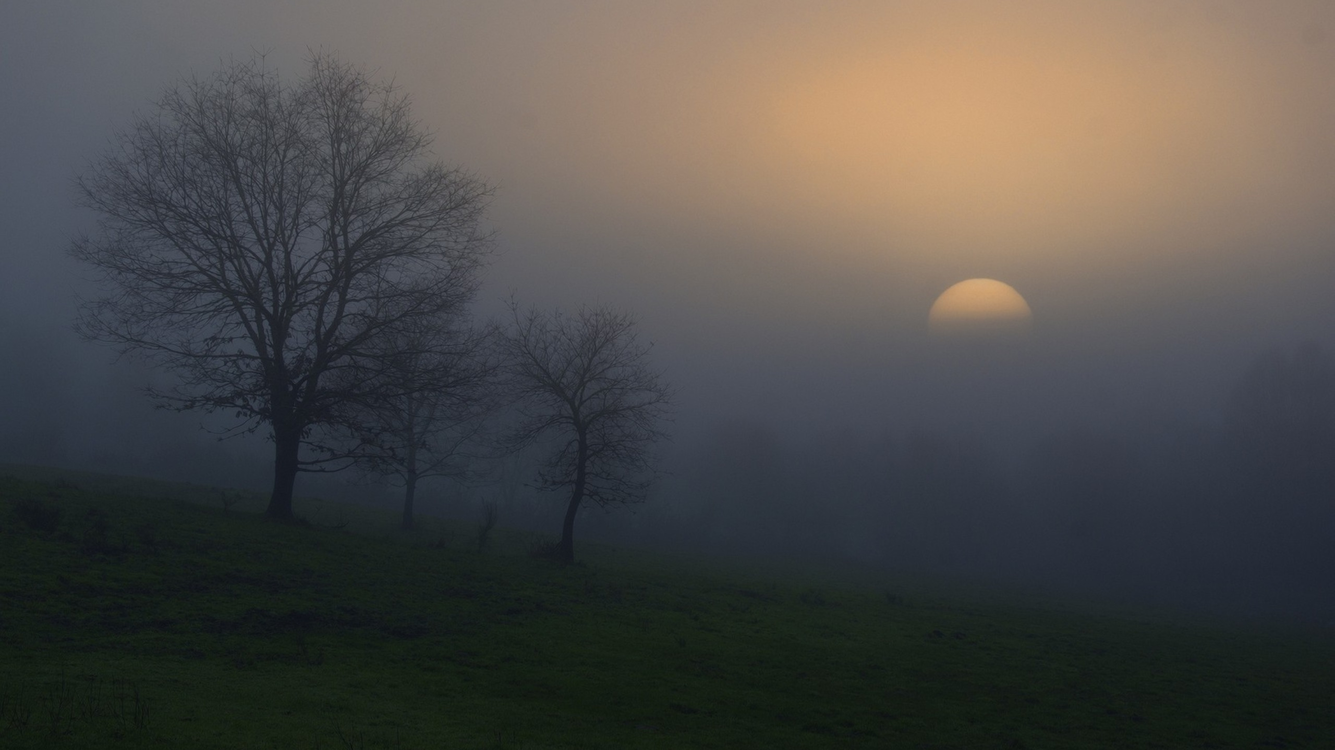
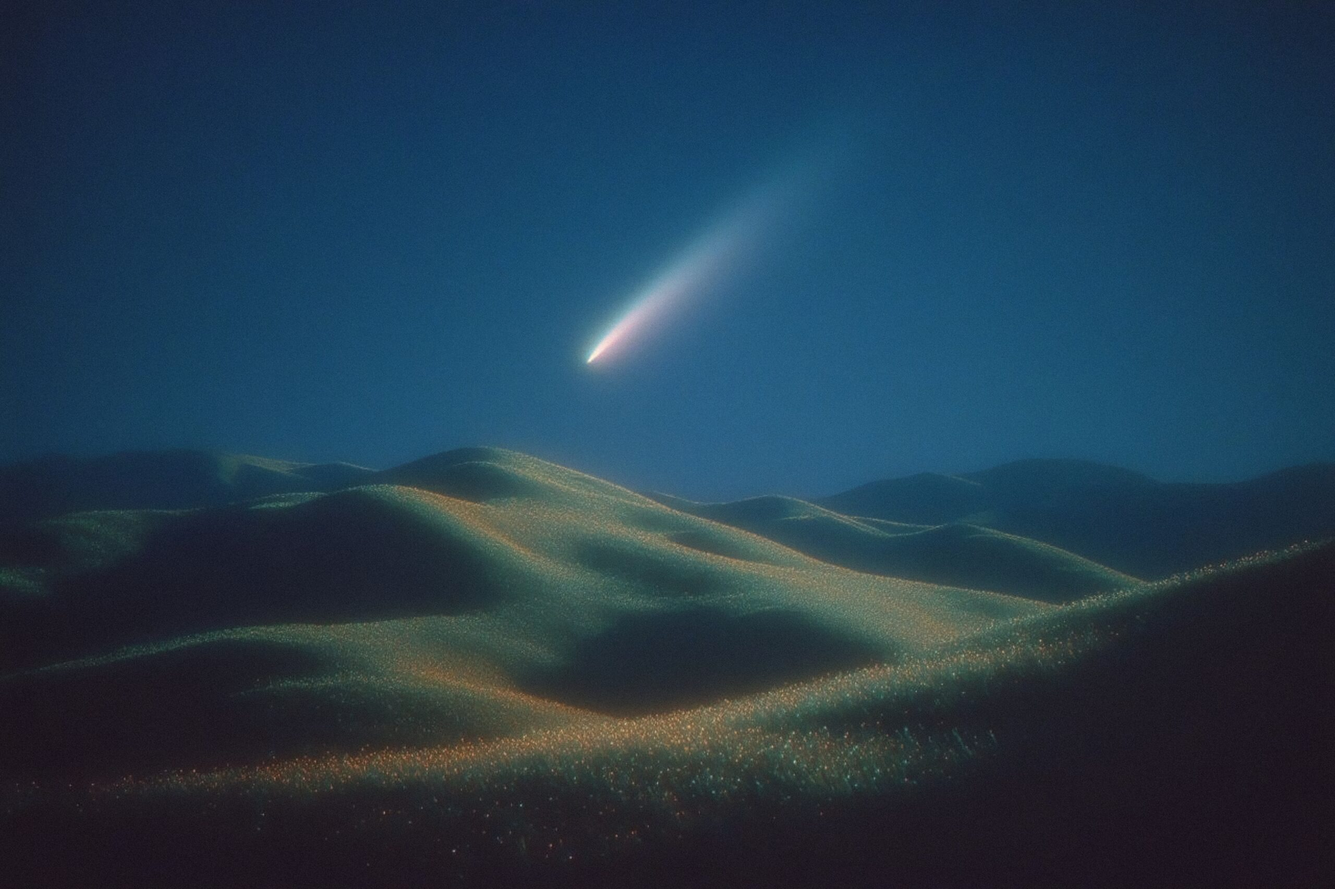
colour updates

diff --git a/_sass/_base.scss b/_sass/_base.scss
@@ -2,6 +2,15 @@
  * Styles for the base elements of the theme.
  ******************************************************************************/
 
+// Translucent white, written out as rgba() text instead of a Sass colour.
+// In compressed output Sass shortens rgba(255, 255, 255, a) to hsla(0, 0%, 100%, a),
+// and the production CSS minifier then strips the "%" from "0%", leaving a value
+// browsers throw away. Use this for any white-with-alpha in a regular property.
+// (Values inside CSS custom properties and gradients are passed through as text already.)
+@function white-a($alpha) {
+  @return unquote("rgba(255, 255, 255, #{$alpha})");
+}
+
 .job-market-badge {
   display: inline-flex;
   align-items: center;
@@ -69,7 +78,7 @@
   position: absolute;
   inset: 0;
   pointer-events: none;
-  background: linear-gradient(to bottom, rgba(18, 21, 22, 0) 70%, var(--global-bg-color) 100%);
+  background: linear-gradient(to bottom, rgba($ink-bg, 0) 70%, var(--global-bg-color) 100%);
 }
 
 .hero-overlay {
@@ -91,8 +100,8 @@
   color: #ffffff;
   padding: 2.5rem 3rem 2.25rem;
   border-radius: 24px;
-  background: rgba(255, 255, 255, 0.08);
-  border: 1px solid rgba(255, 255, 255, 0.16);
+  background: white-a(0.08);
+  border: 1px solid white-a(0.16);
   backdrop-filter: blur(14px) saturate(120%);
   -webkit-backdrop-filter: blur(14px) saturate(120%);
   box-shadow: 0 20px 60px rgba(0, 0, 0, 0.25);
@@ -105,7 +114,7 @@
   font-weight: 600;
   letter-spacing: 0.14em;
   text-transform: uppercase;
-  color: rgba(255, 255, 255, 0.72);
+  color: white-a(0.72);
   margin: 0 0 1.25rem;
 }
 
@@ -128,7 +137,7 @@
   object-fit: cover;
   object-position: 50% 18%;
   opacity: 1;
-  border: 2px solid rgba(255, 255, 255, 0.55);
+  border: 2px solid white-a(0.55);
   box-shadow: 0 8px 24px rgba(0, 0, 0, 0.35);
 }
 
@@ -148,7 +157,7 @@
   font-size: 1.3rem;
   font-weight: 500;
   line-height: 1.5;
-  color: rgba(255, 255, 255, 0.85);
+  color: white-a(0.85);
   margin: 0 auto 2rem;
   max-width: 640px;
 
@@ -228,13 +237,13 @@
 }
 
 .btn-pill-ghost {
-  background: rgba(255, 255, 255, 0.06);
-  border-color: rgba(255, 255, 255, 0.28);
+  background: white-a(0.06);
+  border-color: white-a(0.28);
   color: #ffffff !important;
 
   &:hover {
-    background: rgba(255, 255, 255, 0.12);
-    border-color: rgba(255, 255, 255, 0.6);
+    background: white-a(0.12);
+    border-color: white-a(0.6);
   }
 }
 
@@ -263,30 +272,37 @@
   margin: 0 0 1.5rem;
 }
 
-// Research strip: three linked cards inside the hero, under the name panel,
-// so they share the photo backdrop and read as the same glass as the panel
+// Research strip: four linked cards inside the hero, under the name panel,
+// so they share the photo backdrop. Four across on desktop, two by two on
+// mid widths, stacked on phones (see the max-width: 768px block below).
 .research-strip {
   display: grid;
-  grid-template-columns: repeat(3, 1fr);
+  grid-template-columns: repeat(4, 1fr);
   gap: 1rem;
   width: 100%;
   max-width: $max-content-width;
   padding: 0 15px; // matches the Bootstrap container gutter
+
+  @media (max-width: 1100px) {
+    grid-template-columns: repeat(2, 1fr);
+  }
 }
 
 .research-card {
   display: flex;
   flex-direction: column;
   gap: 0.5rem;
-  padding: 1.5rem;
-  background: rgba(255, 255, 255, 0.08); // identical to .hero-content
-  border: 1px solid rgba(255, 255, 255, 0.16);
+  padding: 1.35rem 1.25rem;
+  // Colours are per theme (see _themes.scss): the cards sit where the photo fades into
+  // the page, so light mode needs dark text on pale glass and dark mode the reverse
+  background: var(--global-hero-card-bg-color);
+  border: 1px solid var(--global-hero-card-border-color);
   border-radius: 18px;
   backdrop-filter: blur(14px) saturate(120%);
   -webkit-backdrop-filter: blur(14px) saturate(120%);
   box-shadow: 0 20px 60px rgba(0, 0, 0, 0.25);
-  color: #ffffff !important;
-  text-shadow: 0 1px 12px rgba(0, 0, 0, 0.35);
+  color: var(--global-hero-card-text-color) !important;
+  text-shadow: var(--global-hero-card-text-shadow);
   text-decoration: none !important;
   transition:
     transform 0.2s ease,
@@ -300,15 +316,19 @@
   }
 }
 
+// Both spans inherit the card colour explicitly; otherwise the global "span" rule
+// gives them the page text colour
 .research-card-title {
   font-family: $font-serif;
-  font-size: 1.35rem;
+  font-size: 1.3rem;
   font-weight: 500;
   line-height: 1.2;
+  color: inherit;
 }
 
 .research-card-blurb {
-  color: rgba(255, 255, 255, 0.8);
+  color: inherit;
+  opacity: 0.82;
   font-size: 0.95rem;
   line-height: 1.5;
 }
@@ -349,8 +369,8 @@
   inset: 0;
   pointer-events: none;
   background:
-    linear-gradient(to bottom, rgba(18, 21, 22, 0) 55%, var(--global-bg-color) 100%),
-    linear-gradient(to bottom, rgba(18, 21, 22, 0.6) 0%, rgba(18, 21, 22, 0.45) 100%);
+    linear-gradient(to bottom, rgba($ink-bg, 0) 55%, var(--global-bg-color) 100%),
+    linear-gradient(to bottom, rgba($ink-bg, 0.6) 0%, rgba($ink-bg, 0.45) 100%);
 }
 
 .page-hero-content {
@@ -378,7 +398,7 @@
 
 .page-hero-description {
   font-size: 1.05rem;
-  color: rgba(255, 255, 255, 0.82);
+  color: white-a(0.82);
   max-width: 620px;
   margin: 0.75rem 0 0;
 }

diff --git a/_sass/_variables.scss b/_sass/_variables.scss
@@ -9,20 +9,20 @@
 $bg-color-hard: #1d2021 !default;
 $bg-color-medium: #282828 !default;
 
-// Near-black "ink" palette used by the dark theme (quieter than Gruvbox hard)
-$ink-bg: #121516 !default; // page background
-$ink-surface: #1a1e20 !default; // cards, panes, code blocks
-$ink-divider: #2a2f32 !default; // 1px borders
+// Navy-black "ink" palette used by the dark theme, tinted to meet the night sky in the hero photo
+$ink-bg: #0f141a !default; // page background
+$ink-surface: #161c24 !default; // cards, panes, code blocks
+$ink-divider: #262e39 !default; // 1px borders
 $ink-text: #e6e3dc !default; // primary text, slightly warm off-white
 $ink-text-light: #9aa0a6 !default; // secondary text
 // Dark-mode accent for links and highlighted text. Swap both values to try another:
-//   amber     #d9a066 / #e8b887   (default: echoes the sunrise glow in the hero)
-//   teal      #5fa8a3 / #7fc1bc   (same family as the light-mode accent)
+//   ice blue  #8fb3d9 / #a9c7e6   (default: the lit part of the hero's night sky)
+//   amber     #d9a066 / #e8b887   (picks up the sparkles on the dunes)
+//   teal      #5fa8a3 / #7fc1bc
 //   rose      #c98a8a / #dba6a6
-//   ice blue  #8fb3d9 / #a9c7e6
 //   cream     #e6dcc8 / #ffffff   (near-monochrome; links read by underline)
-$ink-accent: #d9a066 !default;
-$ink-accent-hover: #e8b887 !default;
+$ink-accent: #8fb3d9 !default;
+$ink-accent-hover: #a9c7e6 !default;
 
 // Light "paper" palette (warm off-white, near-black text, one muted accent)
 $paper-bg: #faf8f5 !default;
@@ -31,8 +31,8 @@ $paper-surface-2: #f1eee8 !default;
 $paper-text: #15191d !default;
 $paper-text-light: #6b7076 !default;
 $paper-divider: rgba(0, 0, 0, 0.08) !default;
-$paper-accent: #2f6f73 !default; // muted teal
-$paper-accent-dark: #1f5558 !default;
+$paper-accent: #1f5a7a !default; // deep sky blue, from the hero photo (previously muted teal #2f6f73 / #1f5558)
+$paper-accent-dark: #16455e !default;
 
 // Type stacks: serif for display headings, sans for body, mono for prompts and code
 $font-serif: "Newsreader", "Iowan Old Style", Georgia, "Times New Roman", serif !default;

diff --git a/_sass/_themes.scss b/_sass/_themes.scss
@@ -10,6 +10,12 @@
   --global-navbar-bg-color: rgba(250, 248, 245, 0.82);
   --global-glass-bg-color: rgba(255, 255, 255, 0.55);
   --global-glass-border-color: rgba(0, 0, 0, 0.08);
+  // Home-page research cards: pale glass and dark text, because in light mode
+  // the hero photo fades to the paper background behind them
+  --global-hero-card-bg-color: rgba(255, 255, 255, 0.62);
+  --global-hero-card-border-color: rgba(255, 255, 255, 0.55);
+  --global-hero-card-text-color: #{$paper-text};
+  --global-hero-card-text-shadow: none;
   --global-code-bg-color: #{$paper-surface-2};
   --global-text-color: #{$paper-text};
   --global-text-color-light: #{$paper-text-light};
@@ -90,9 +96,14 @@
 html[data-theme="dark"] {
   color-scheme: dark;
   --global-bg-color: #{$ink-bg};                 // Near-black page background
-  --global-navbar-bg-color: rgba(18, 21, 22, 0.72); // Frosted navbar
+  --global-navbar-bg-color: rgba(15, 20, 26, 0.72); // Frosted navbar ($ink-bg at 72%)
   --global-glass-bg-color: rgba(255, 255, 255, 0.13); // Frosted tiles: tuned to match the hero panel over the photo
   --global-glass-border-color: rgba(255, 255, 255, 0.2);
+  // Home-page research cards: the same glass as the hero name panel, white text
+  --global-hero-card-bg-color: rgba(255, 255, 255, 0.08);
+  --global-hero-card-border-color: rgba(255, 255, 255, 0.16);
+  --global-hero-card-text-color: #ffffff;
+  --global-hero-card-text-shadow: 0 1px 12px rgba(0, 0, 0, 0.35);
   --global-code-bg-color: #{$ink-surface};       // Code block / secondary surface
   --global-text-color: #{$ink-text};             // Primary text
   --global-text-color-light: #{$ink-text-light}; // Secondary text

diff --git a/_pages/research-themes.md b/_pages/research-themes.md
@@ -2,31 +2,38 @@
 layout: page
 title: research
 hero_title: Research themes
-description: Three avenues through which I approach machine learning for science.
+description: Four avenues through which I approach machine learning for science.
 permalink: /research-themes/
 nav: true
 nav_order: 0
 ---
 
-I am interested in the role of machine learning in science, and the role of physics to build more capable artificial intelligence. I approach these problems through the three main avenues below.
+I am interested in the role of machine learning in science, and the role of physics to build more capable artificial intelligence. I approach these problems through the four main avenues below.
 
 <div class="section-terminal">
   <div class="section-terminal-body">
-    <h3 class="terminal-heading" style="margin-top:0;">Latent dynamical systems</h3>
-    <p>Learning compact, physically meaningful representation spaces in which complex systems evolve, making their dynamics easier to learn, easier to constrain (if one desires), and generally more robust to systematics.</p>
+    <h3 class="terminal-heading" style="margin-top:0;">Latent dynamics &amp; world models</h3>
+    <p>Learning compact, physically meaningful representation spaces in which complex systems evolve, making their dynamics easier to learn, easier to constrain (if one desires), and generally more robust to systematics. On top of these I build world models that capture the generative and causal structure of physical systems, supporting intervention, counterfactual reasoning, and reliable extrapolation rather than naive pattern-matching.</p>
   </div>
 </div>
 
 <div class="section-terminal">
   <div class="section-terminal-body">
-    <h3 class="terminal-heading" style="margin-top:0;">Physics-informed world models</h3>
-    <p>Models that capture the generative and causal structure of physical systems, supporting intervention, counterfactual reasoning, and reliable extrapolation rather than naive pattern-matching.</p>
+    <h3 class="terminal-heading" style="margin-top:0;">Continual learning</h3>
+    <p>Learning systems that adapt over time, accumulating knowledge rather than being retrained from scratch. I am interested in how a model can take in new data and new tasks while keeping what it already knows, and in treating learning itself as a dynamical process that can be modelled and steered.</p>
   </div>
 </div>
 
 <div class="section-terminal">
   <div class="section-terminal-body">
-    <h3 class="terminal-heading" style="margin-top:0;">AI agents for scientific discovery</h3>
+    <h3 class="terminal-heading" style="margin-top:0;">AI agents for discovery</h3>
     <p>Autonomous and semi-autonomous systems that combine learned dynamics, physical priors, and reasoning to form hypotheses, design experiments, and accelerate scientific discovery.</p>
+  </div>
+</div>
+
+<div class="section-terminal">
+  <div class="section-terminal-body">
+    <h3 class="terminal-heading" style="margin-top:0;">Multi-agent science</h3>
+    <p>Groups of agents that work the way a research group does: proposing ideas, critiquing each other's reasoning, and testing claims against data and simulation. This is a direction I am moving into, with a focus on how collaboration and disagreement between agents can make automated science more reliable than a single agent working alone.</p>
   </div>
 </div>

diff --git a/_pages/about.md b/_pages/about.md
@@ -6,12 +6,14 @@ subtitle:
 typing_tagline: "using the foundations of physics to build artificial intelligence."
 
 research_strip:
+  - title: Latent dynamics & world models
+    blurb: Physically meaningful latent spaces that capture causal structure, not just patterns.
   - title: Continual learning
     blurb: Learning systems that adapt over time, accumulating knowledge rather than being retrained from scratch.
-  - title: Physics-informed world models
-    blurb: Models that capture generative and causal structure, not just patterns.
   - title: AI agents for discovery
     blurb: Systems that form hypotheses, design experiments, and accelerate science.
+  - title: Multi-agent science
+    blurb: Groups of agents that propose, critique, and test ideas together, the way a research group does.
 
 profile:
   align: right
